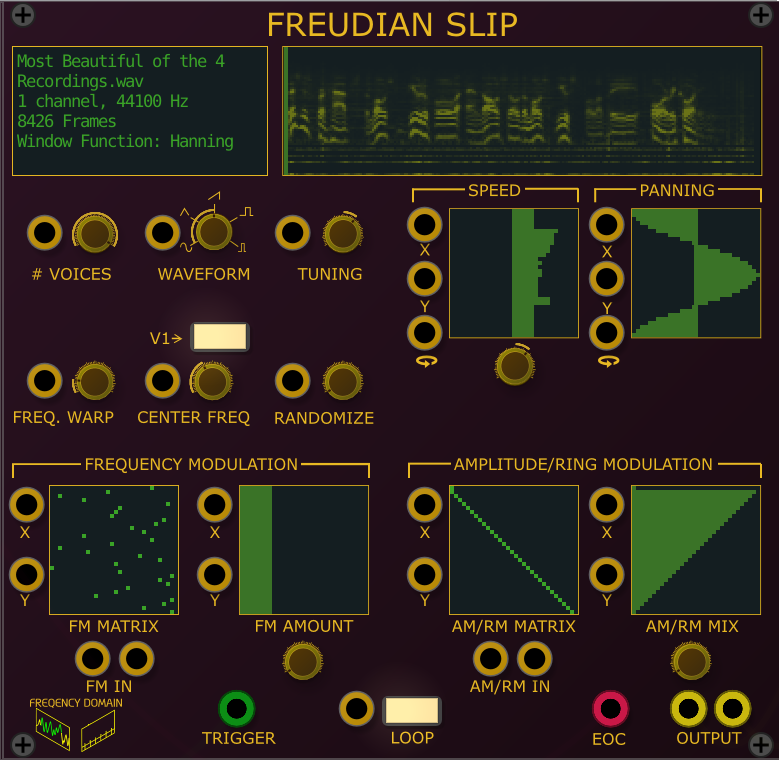
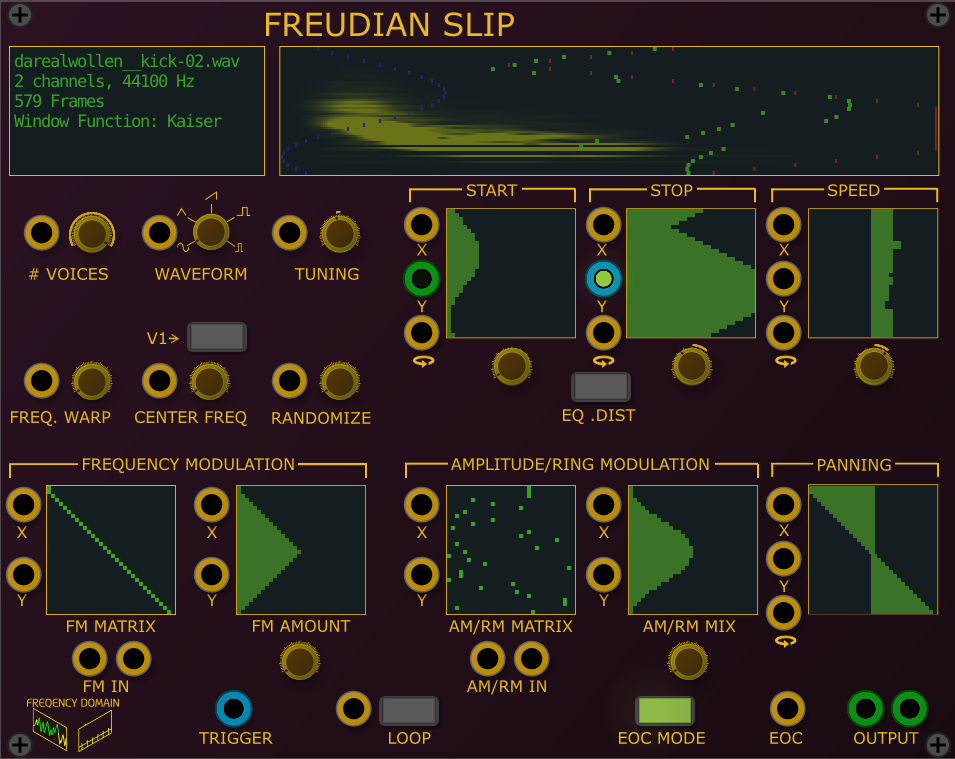
1.5.5 Release

diff --git a/README.md b/README.md
@@ -11,6 +11,10 @@ Frequency domain based VCV Plugins
 - Analyzes the sample's spectal content and then drives up to 32 oscillators based on that analysis
 - Right click to adjust Windowing Function which alters harmonic content  
 - Right click on grids to choose from default shapes or transform patterns
+- Start and Stop grids control where in the sample playback starts/stops
+- If Equal distance mode is on, each voice will travel the same distance whether playing forward or backwards  
+If voices are playing forward and backwards simultaneously, this means they may not stop at the same position  
+but it minimizes cases where no sound is heard
 - Speed cobtrols the speed or duration of the playback without changing pitch
 - Negative play speeds play sample in reversse
 - By drawing a curve, each voice can have its own play speed - even ones where some voices go forwards, others in reverse
@@ -27,6 +31,9 @@ This is great for creating inharmonic sounds
 - RM/AM Matrix controls which AM/RM input (x axis) modulates which oscillator (y axis).
 - AM/RM Mix controls the amount of amplitude modulation 
 - Panning allows each oscillator to be placed in the stereo field
+- EOC Mode controls when the EOC pulse is sent and when the sample loops
+  * Green - EOC is when all voices finish
+  * Orange - EOC is when first voice finishes
 - X AND Y inputs on all grids allow CV Modulation of grid in either dimension
 - Panning and Play Speed grids have rotate CV input that rotates x values around the y axis
 

diff --git a/CHANGELOG.md b/CHANGELOG.md
@@ -1,3 +1,6 @@
+### 1.5.5 (2020=05-26)
+- Added Start/Stop conrtrol to Frudian Slip
+
 ### 1.5.0 (2020-05-25)
 - Added Freudian Slip Module
 
